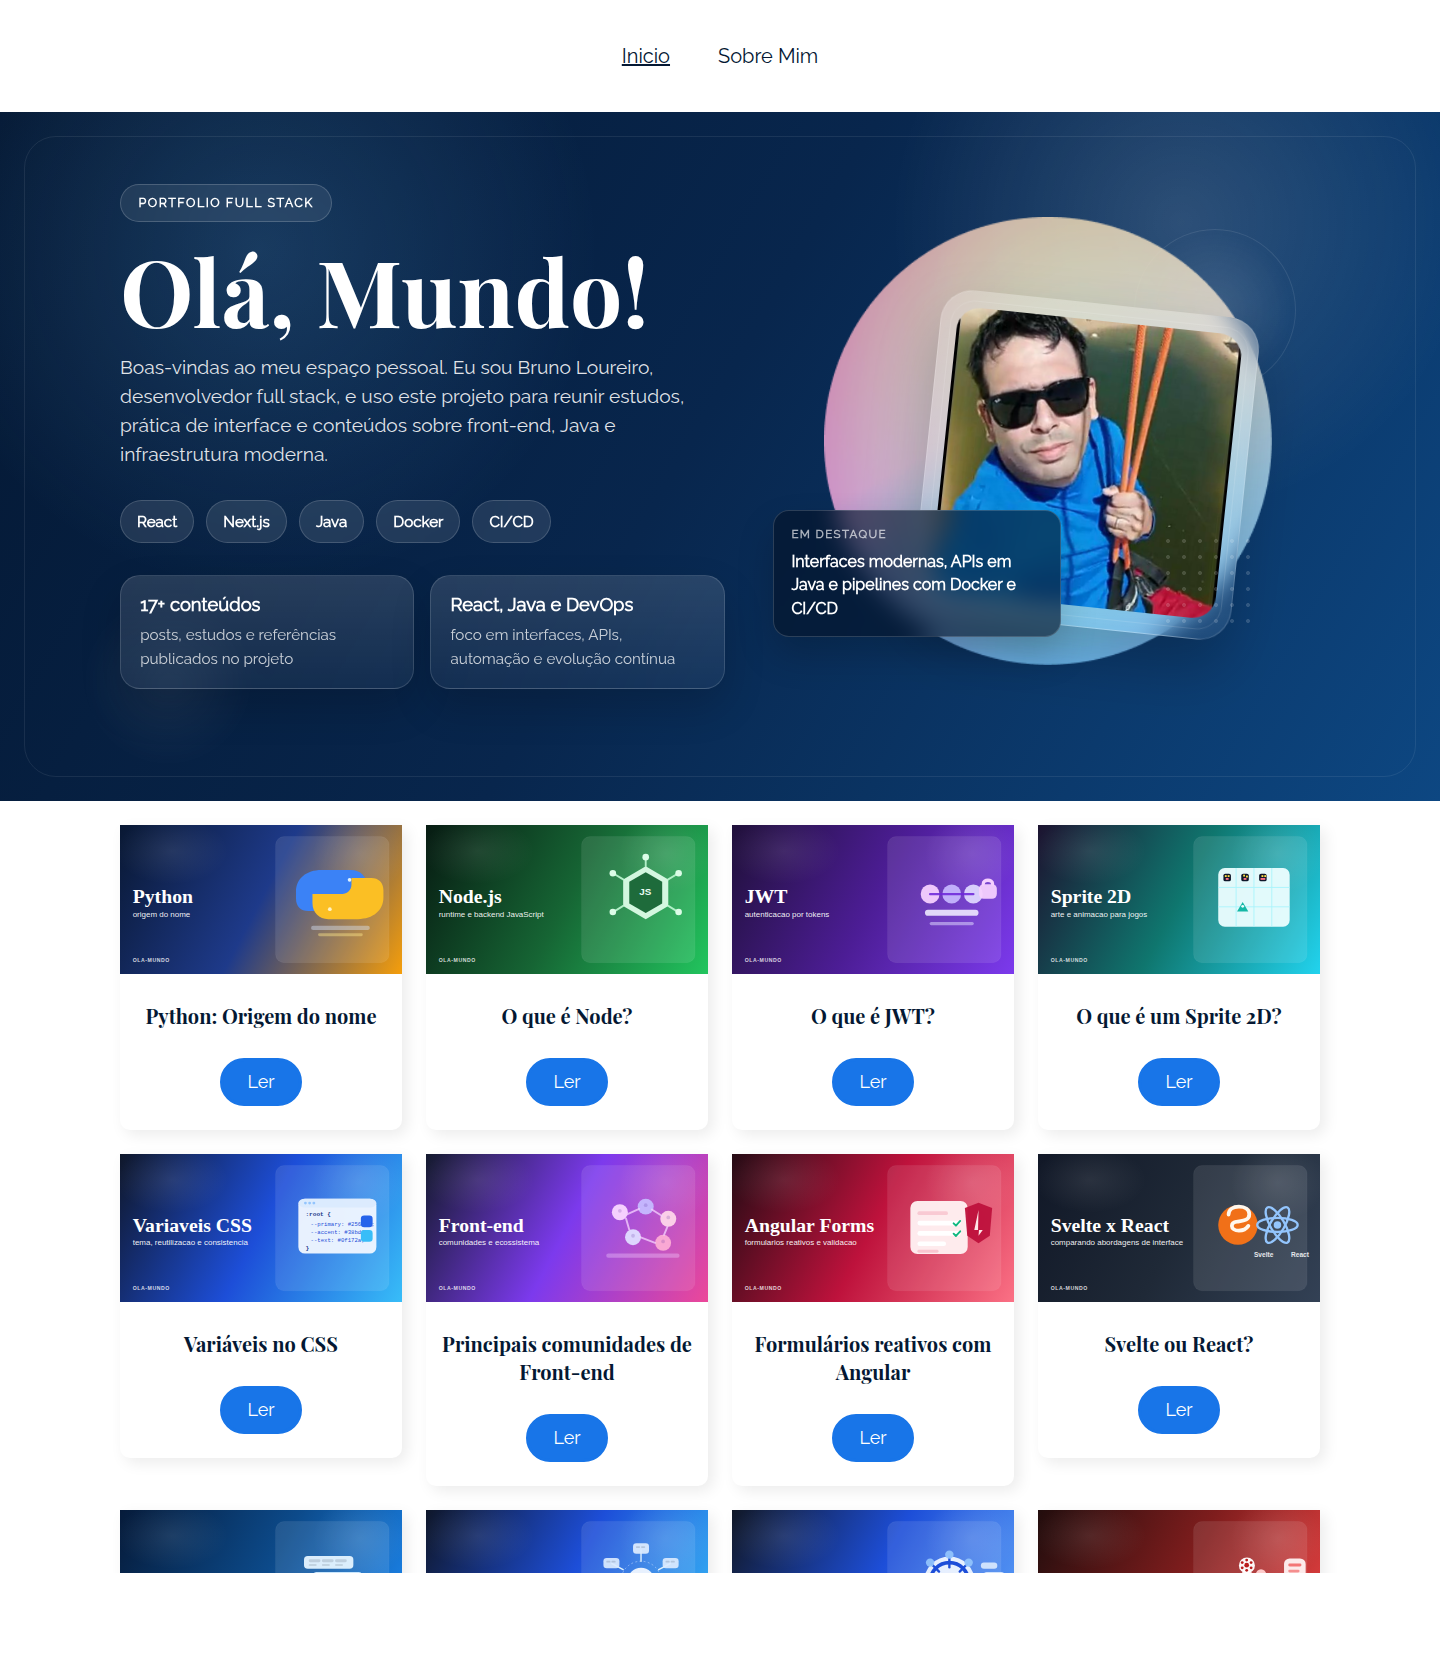
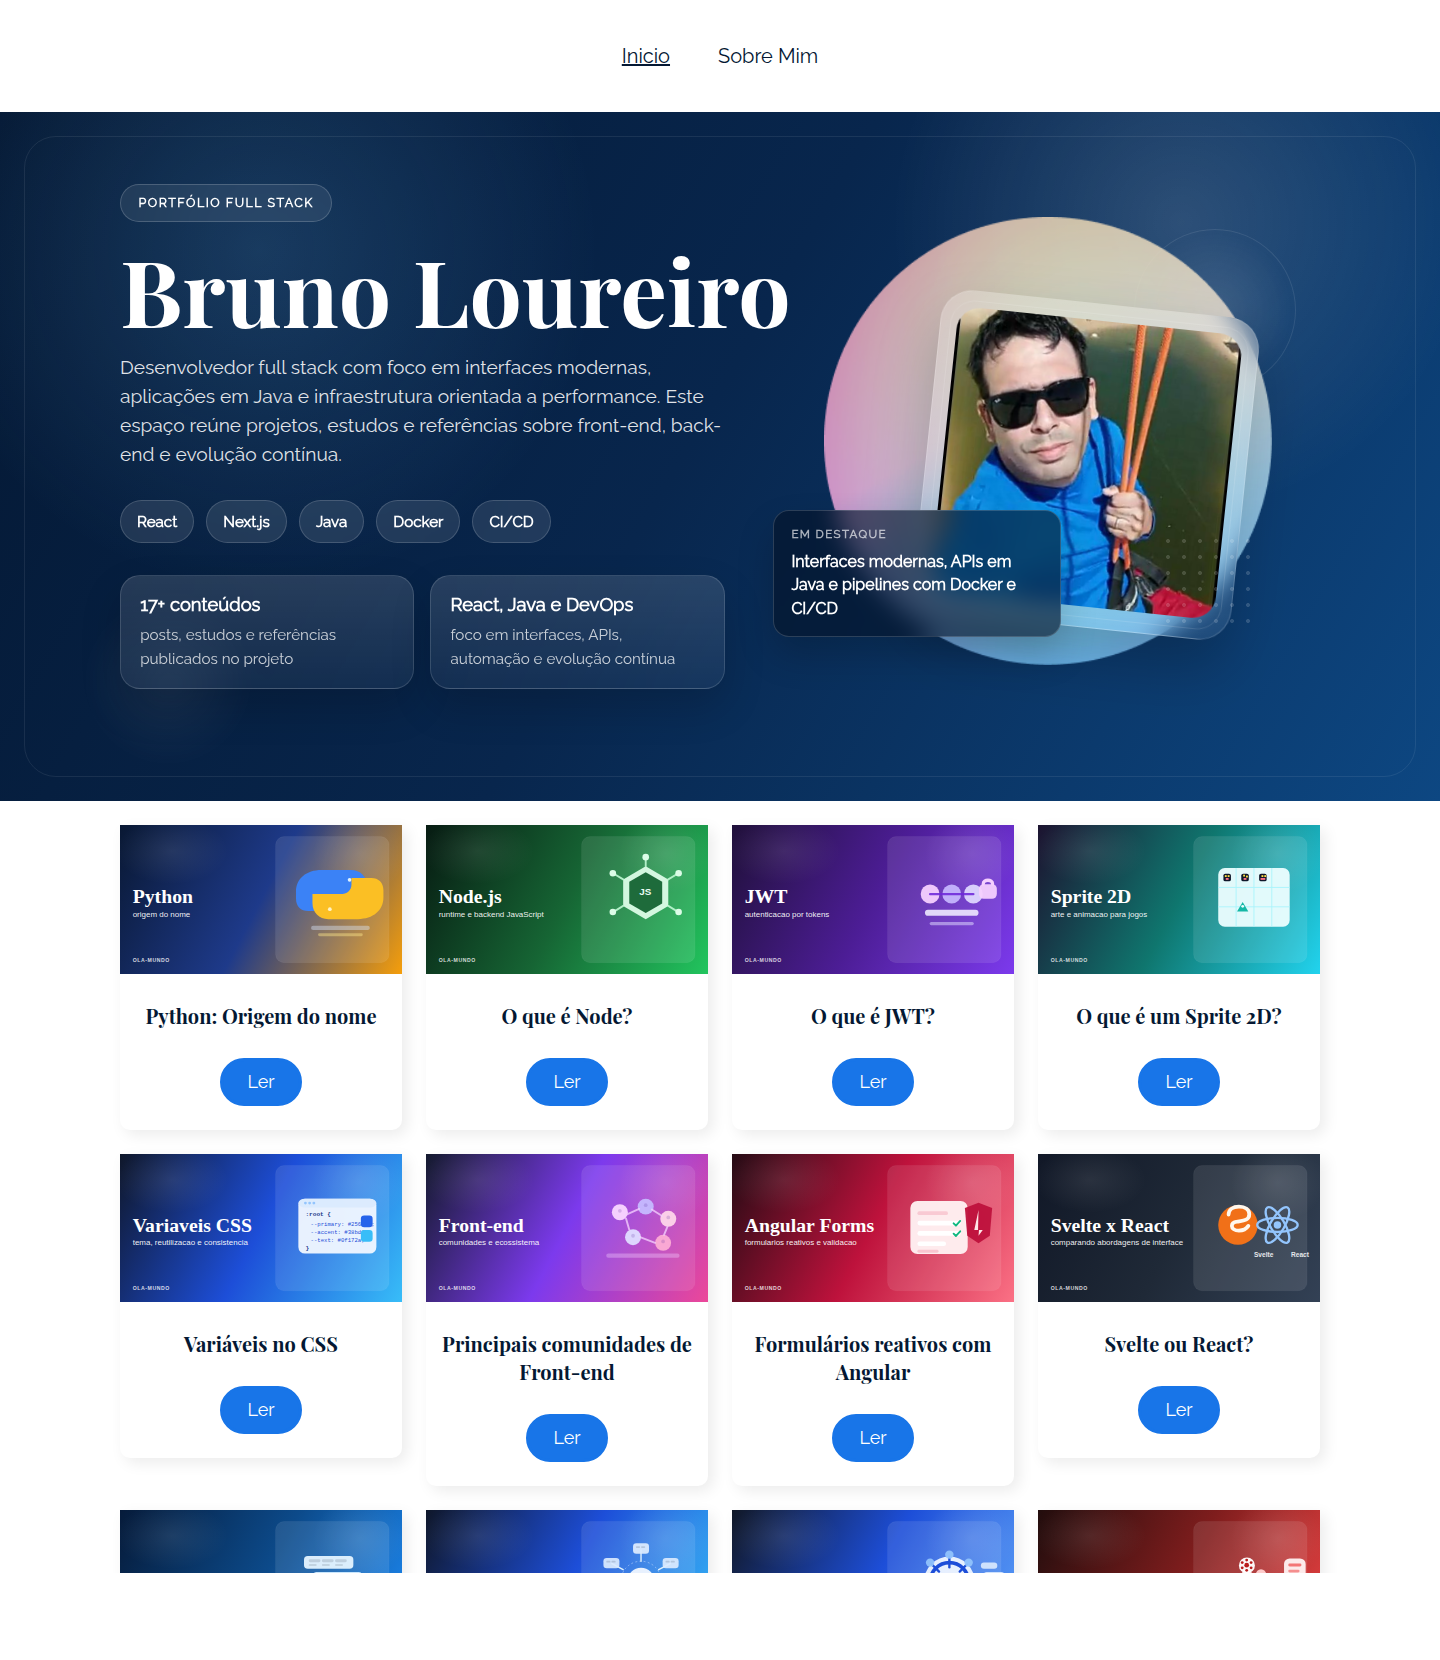
docs: atualiza README e previews com a nova identidade do portfólio

Changed region(s): [[0.0938, 0.1536, 0.5625, 0.2765]]

diff --git a/README.md b/README.md
@@ -1,7 +1,7 @@
-# Olá Mundo
+# Bruno Loureiro | Portfólio Full Stack
 
 <p align="center">
-  <a href="https://main--glowing-toffee-24fc65.netlify.app/">Acessar projeto publicado</a>
+  <a href="https://main--glowing-toffee-24fc65.netlify.app/">Acessar portfólio publicado</a>
 </p>
 
 <p align="center">
@@ -14,17 +14,17 @@
 
 ## Sobre o projeto
 
-O **Olá Mundo** é um blog pessoal desenvolvido em **React** e publicado no **Netlify**. A aplicação apresenta uma home com banner redesenhado, listagem de posts em formato de cards ilustrados, página "Sobre Mim" e páginas de detalhe com conteúdo renderizado em Markdown.
+Este repositório reúne o **portfólio pessoal de Bruno Loureiro**, desenvolvido em **React** e publicado no **Netlify**. A aplicação apresenta uma home com banner de apresentação profissional, listagem de posts em formato de cards ilustrados, página "Sobre Mim" e páginas de detalhe com conteúdo renderizado em Markdown.
 
-Além de servir como vitrine do projeto, a aplicação demonstra uma estrutura organizada para componentes reutilizáveis, roteamento no cliente e construção de interface responsiva.
+Além de funcionar como vitrine profissional, a aplicação demonstra uma estrutura organizada para componentes reutilizáveis, roteamento no cliente e construção de interface responsiva.
 
 ## Preview
 
 As imagens abaixo foram capturadas da versão publicada do projeto:
 
 <p align="center">
-  <img src="docs/images/ola-mundo-desktop.png" alt="Preview desktop do projeto Olá Mundo" width="72%" />
-  <img src="docs/images/ola-mundo-mobile.png" alt="Preview mobile do projeto Olá Mundo" width="22%" />
+  <img src="docs/images/ola-mundo-desktop.png" alt="Preview desktop do portfólio Bruno Loureiro" width="72%" />
+  <img src="docs/images/ola-mundo-mobile.png" alt="Preview mobile do portfólio Bruno Loureiro" width="22%" />
 </p>
 
 ## Funcionalidades

diff --git a/PROFILE-README.md b/PROFILE-README.md
@@ -68,9 +68,9 @@ Sou desenvolvedor full stack e gosto de construir produtos com foco em:
 
 ## Projeto em destaque
 
-### Olá Mundo
+### Portfólio Full Stack
 
-Blog pessoal desenvolvido em React com banner personalizado, grid de posts ilustrados e páginas de detalhe em Markdown.
+Portfólio pessoal desenvolvido em React com banner profissional, grid de posts ilustrados e páginas de detalhe em Markdown.
 
 - Repositório: https://github.com/LoureiroBruno/ola-mundo
 - Deploy: https://main--glowing-toffee-24fc65.netlify.app/
